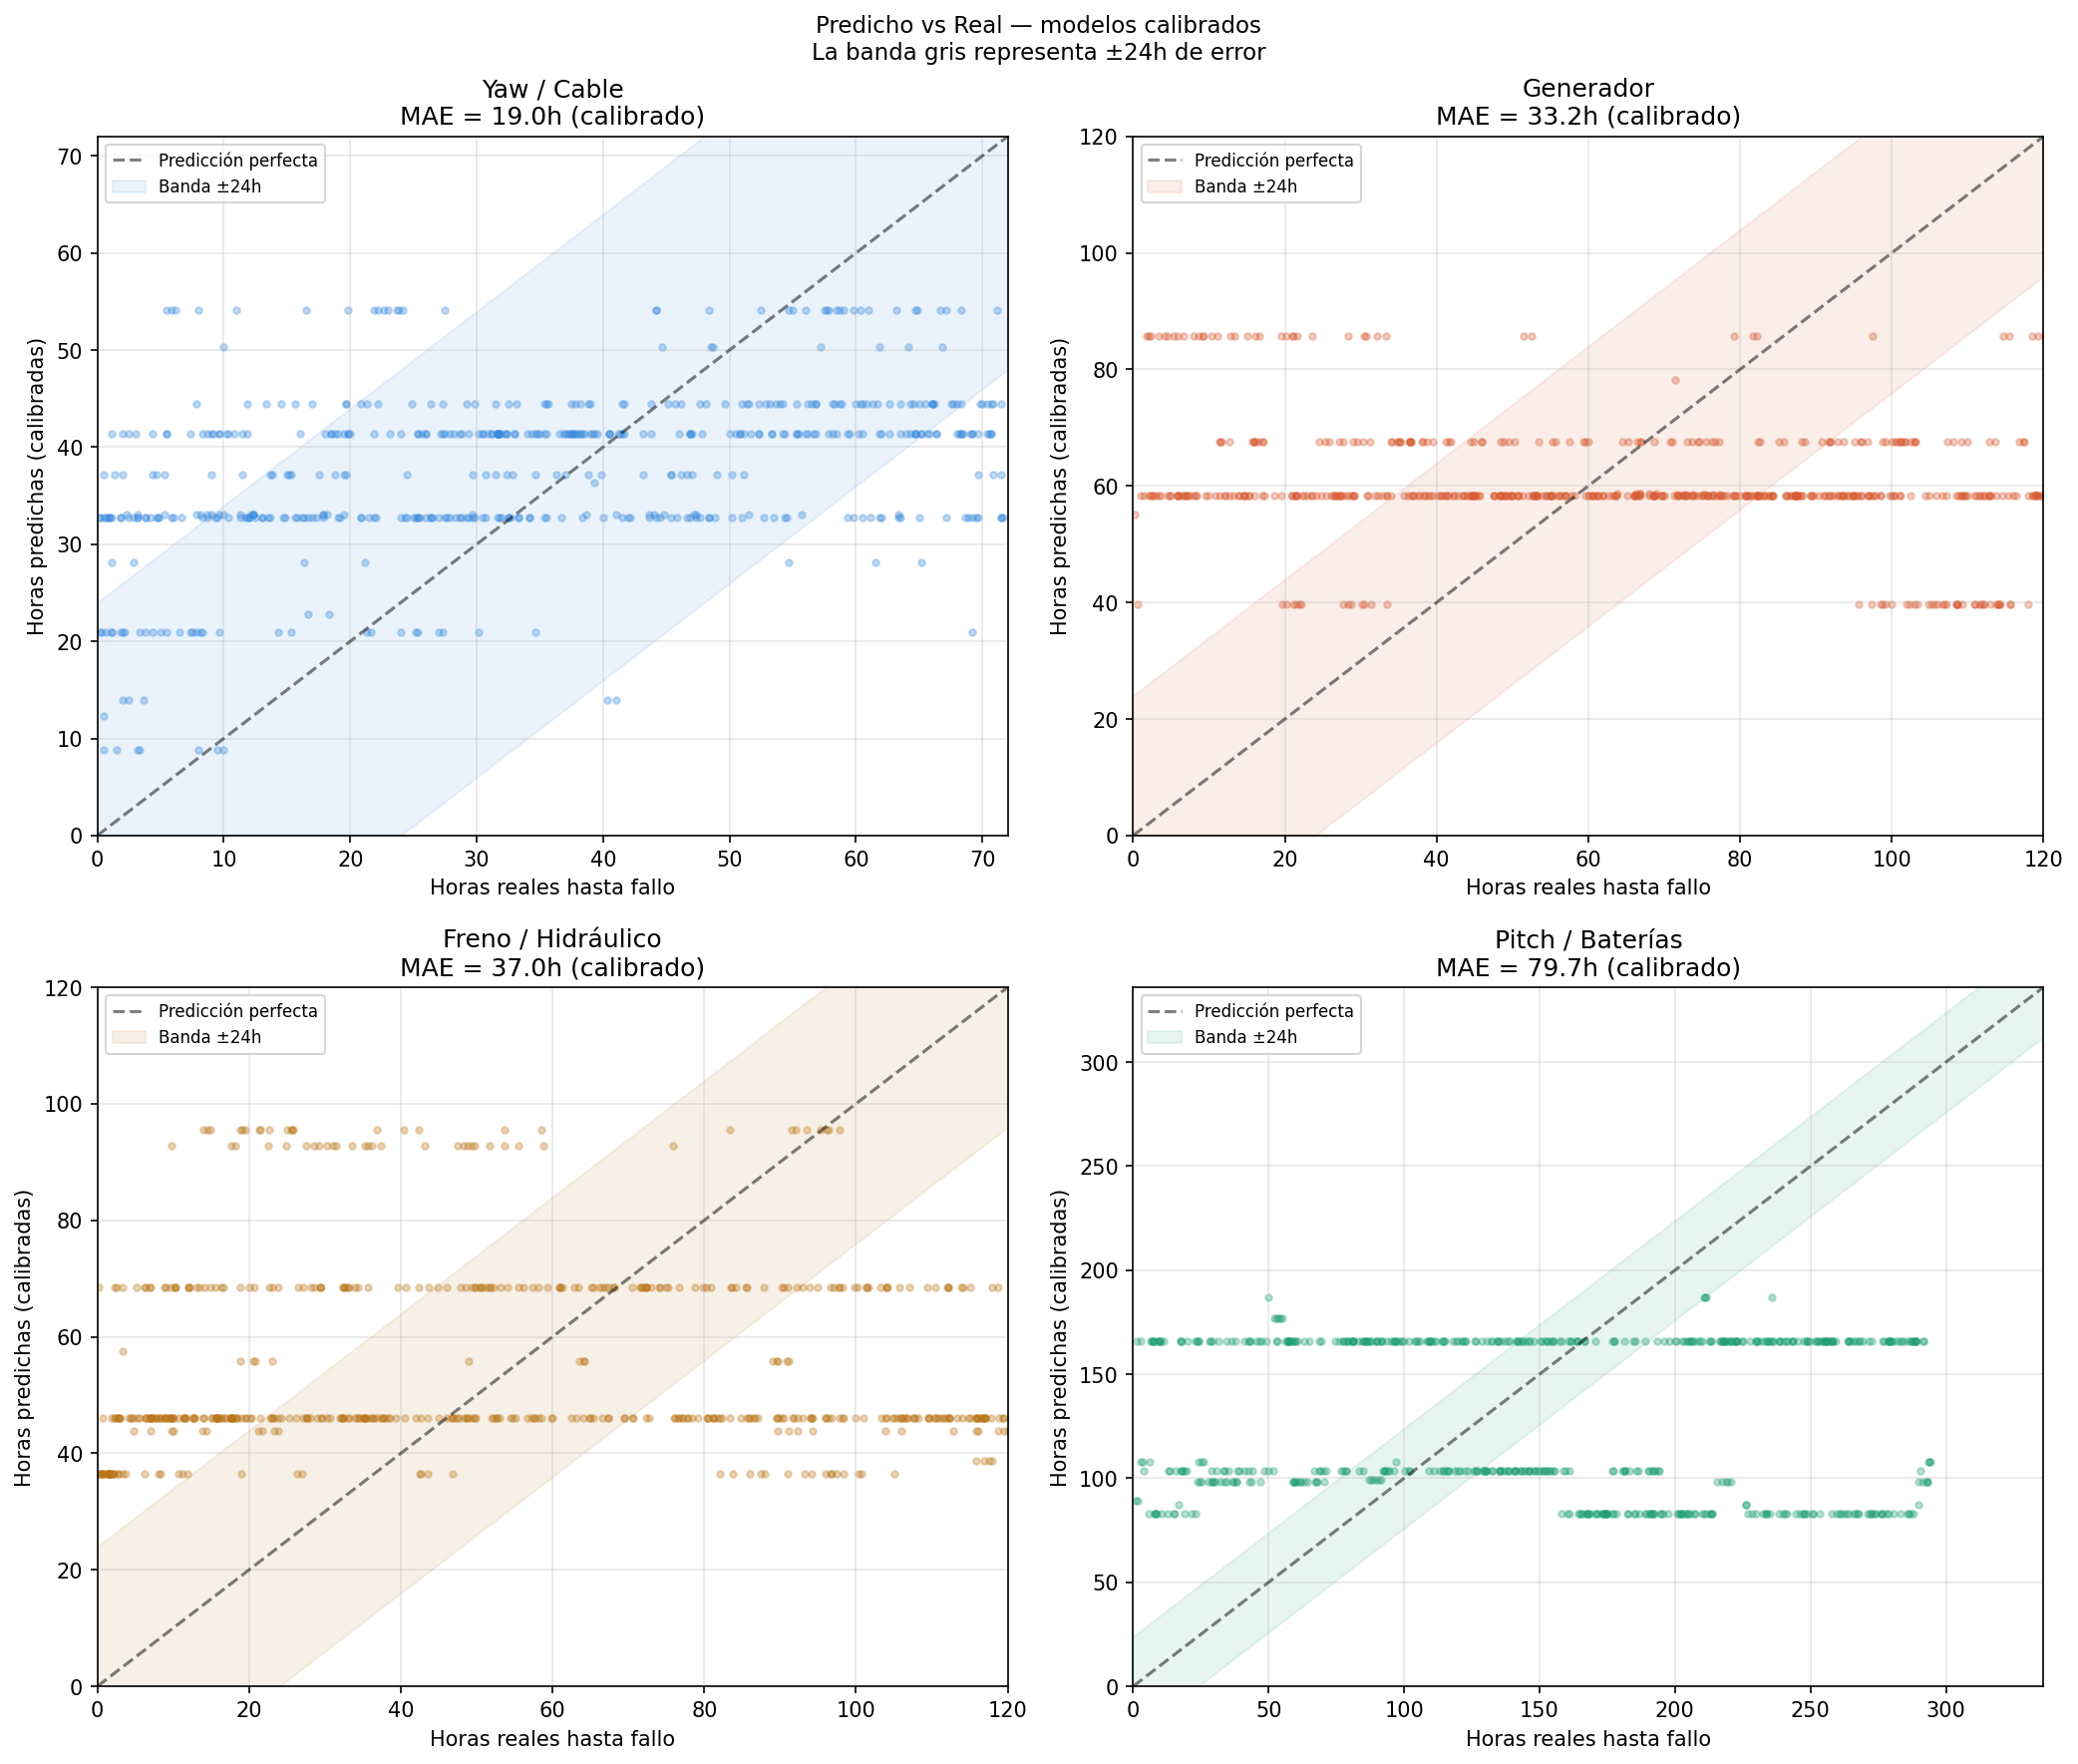
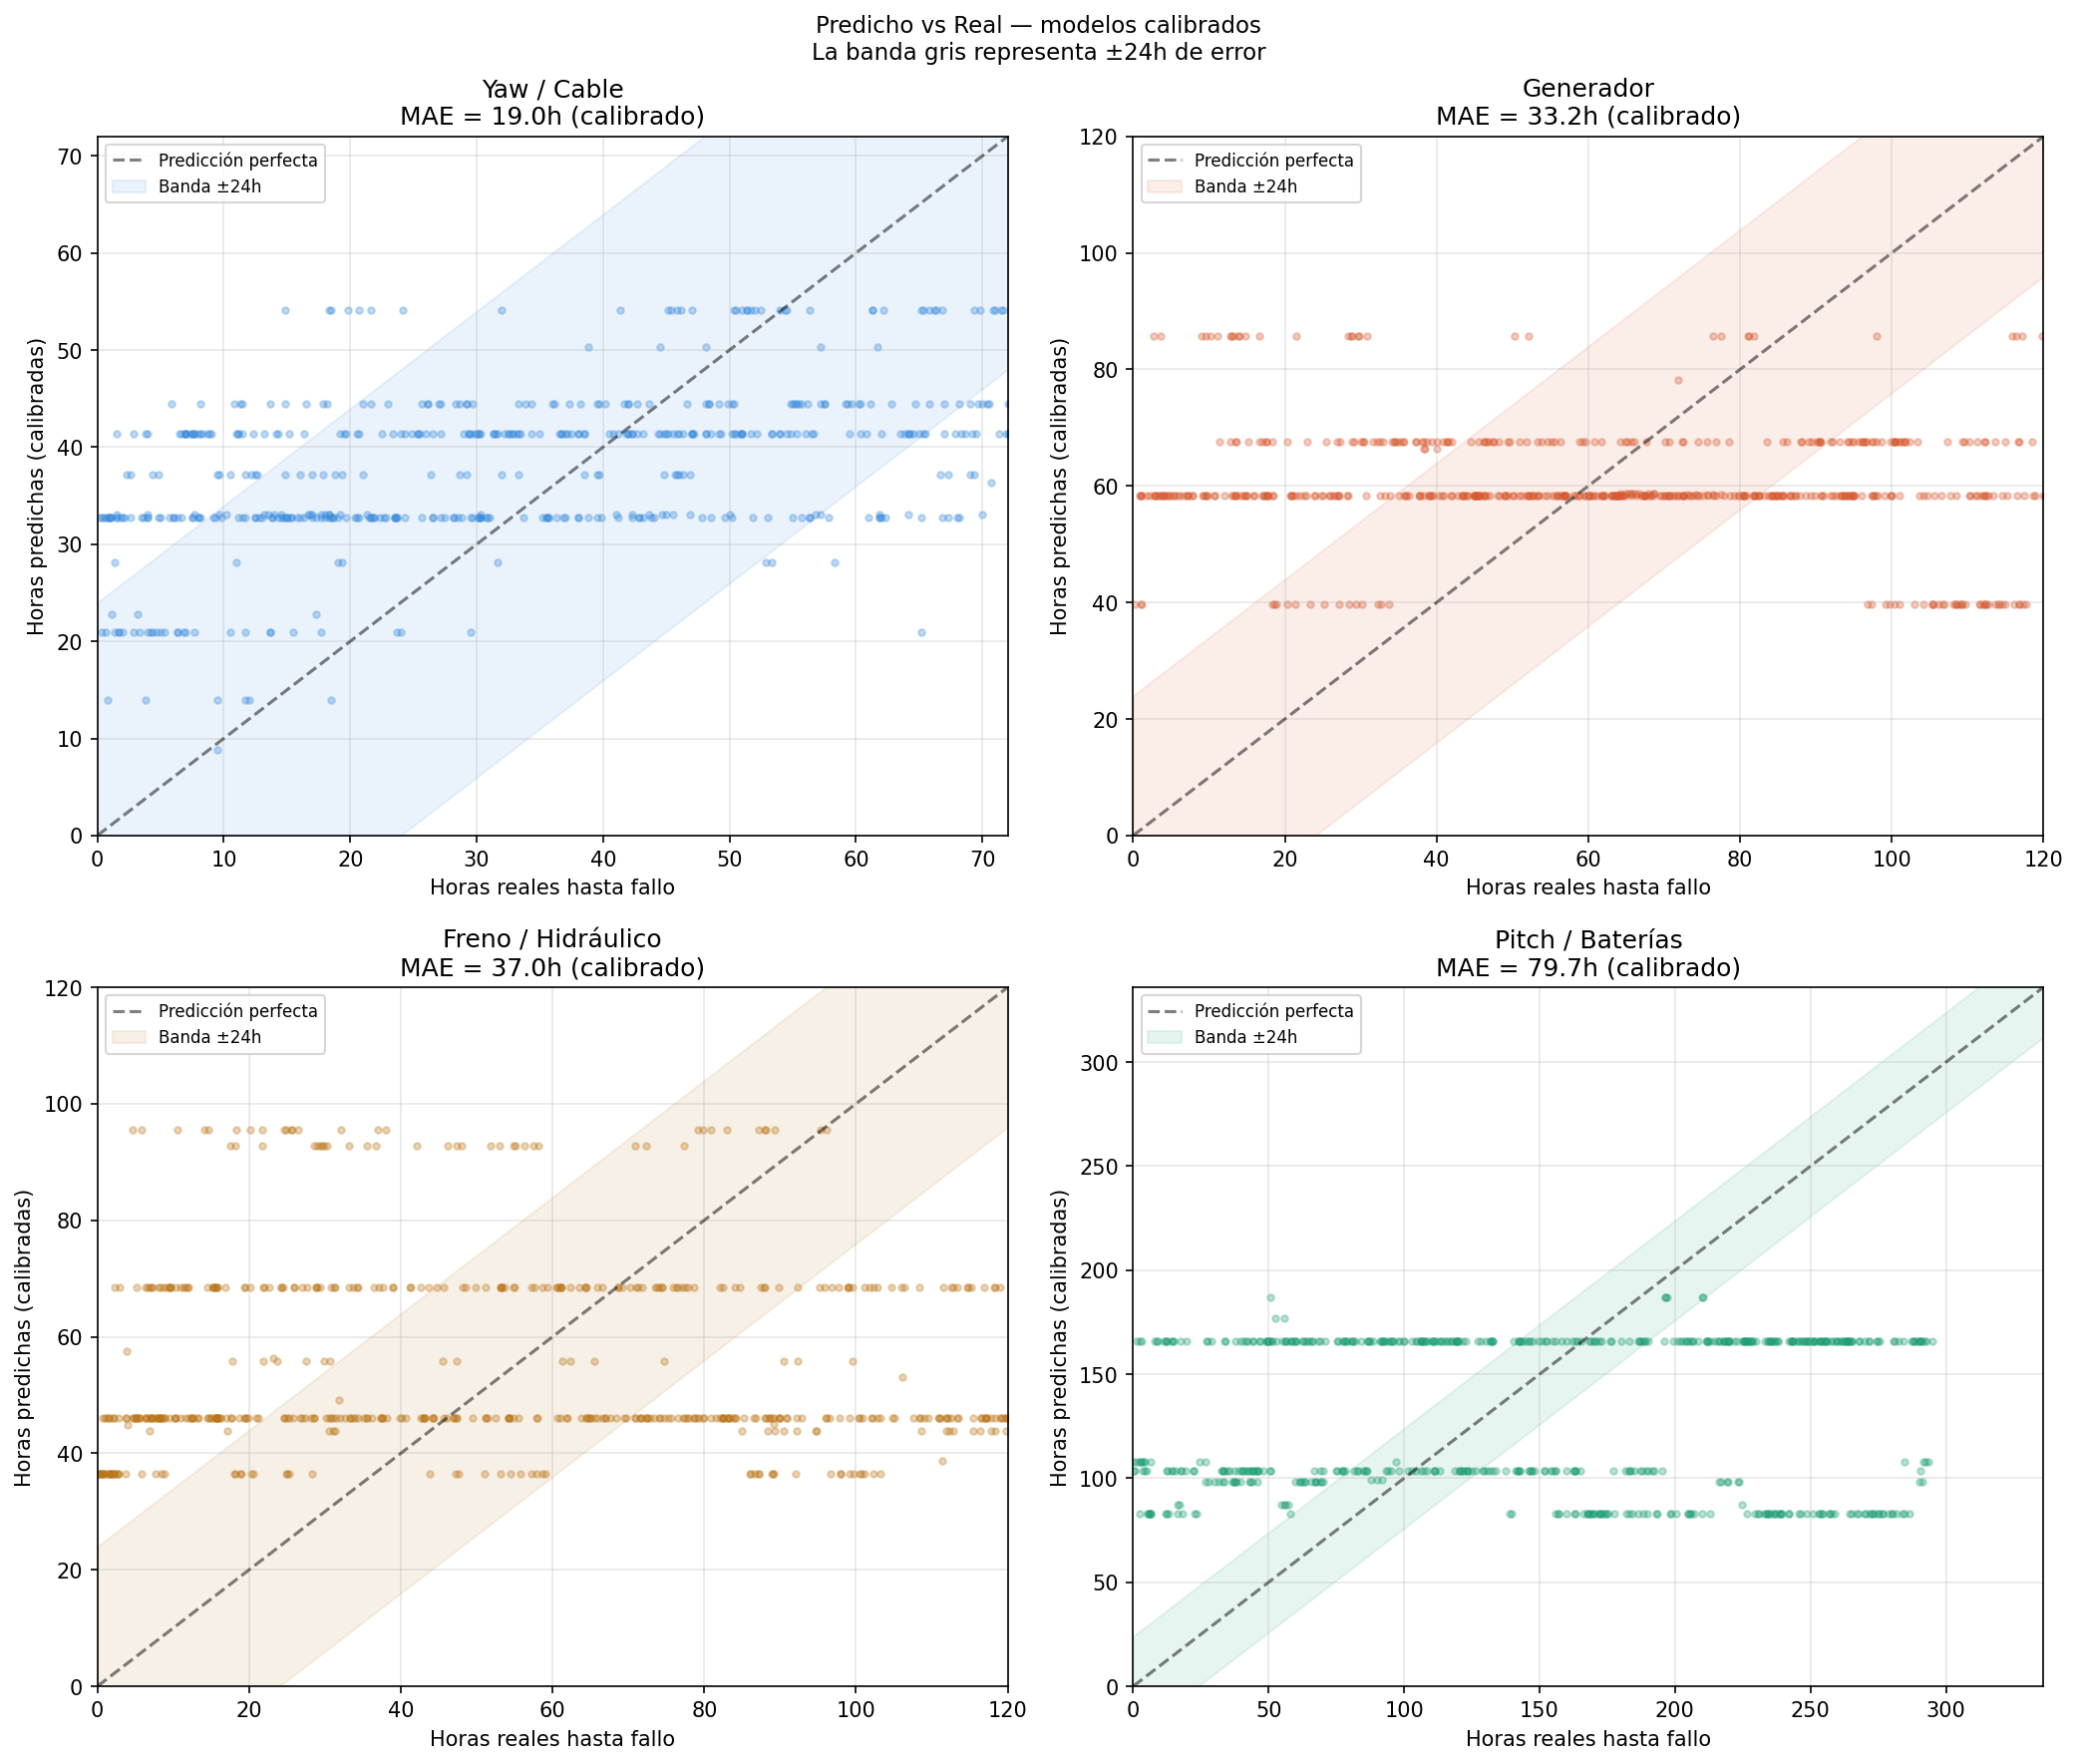
Update20260607

diff --git a/src/t2_03_process_fault_log.py b/src/t2_03_process_fault_log.py
@@ -1,0 +1,115 @@
+"""
+Procesa el CSV mensual de fallos de T2 y lo acumula en
+fault_targets_grouped_t2.parquet con la misma estructura que T1.
+
+Uso:
+  python t2_03_process_fault_log.py --csv /ruta/al/fault_log_mes.csv
+
+El CSV de entrada tiene la estructura original del SCADA:
+  Timestamp start, Timestamp end, Duration, Status, Code, Message,
+  Comment, Service contract category, IEC category, is_failure_target
+"""
+import os, argparse
+import pandas as pd
+
+BASE_DIR   = os.path.dirname(os.path.dirname(os.path.abspath(__file__)))
+SILVER_DIR = os.path.join(BASE_DIR, 'data', 'silver')
+
+# Mismos códigos que en 03_merge_and_cleaning.ipynb
+FAULT_FAMILIES = {
+    'yaw_cable':   {'codes': [6052, 6200, 6054, 6120, 6300]},
+    'brake_hydro': {'codes': [2125, 5720, 5510, 2000, 1860]},
+    'generator':   {'codes': [3000, 2550, 2650, 2655, 2674, 3125, 8400]},
+    'pitch_bat':   {'codes': [716, 717, 718, 681, 682, 683, 785, 850]},
+}
+
+ALL_TARGET_CODES = {
+    code for cfg in FAULT_FAMILIES.values() for code in cfg['codes']
+}
+
+def get_family(code):
+    for family, cfg in FAULT_FAMILIES.items():
+        if code in cfg['codes']:
+            return family
+    return 'other'
+
+def process_fault_csv(csv_path: str) -> pd.DataFrame:
+    """
+    Procesa un CSV de fallos con estructura original del SCADA.
+    Devuelve un DataFrame agrupado por (timestamp, family) listo
+    para acumular en fault_targets_grouped_t2.parquet.
+    """
+    df = pd.read_csv(csv_path, parse_dates=['Timestamp start'])
+
+    # Filtrar solo eventos marcados como failure target
+    targets = df[df['is_failure_target'] == True].copy()
+    print(f'  Eventos is_failure_target=True: {len(targets)}')
+
+    if len(targets) == 0:
+        print('  Sin eventos de fallo en este CSV.')
+        return pd.DataFrame()
+
+    # Filtrar solo los códigos de las 4 familias
+    targets = targets[targets['Code'].isin(ALL_TARGET_CODES)].copy()
+    print(f'  Eventos en familias entrenables: {len(targets)}')
+
+    # Redondear timestamp hacia abajo al intervalo de 10 minutos
+    # (igual que en 03_merge_and_cleaning — floor, no round)
+    targets['timestamp'] = targets['Timestamp start'].dt.floor('10min')
+
+    # Asignar familia
+    targets['family'] = targets['Code'].apply(get_family)
+    targets = targets[targets['family'] != 'other'].copy()
+
+    # Agrupar por (timestamp, familia) — misma lógica que el notebook 03
+    grouped = targets.groupby(['timestamp', 'family']).agg(
+        Code    = ('Code',    lambda x: ','.join(map(str, sorted(x.unique())))),
+        Message = ('Message', lambda x: ' | '.join(x.unique())),
+        Status  = ('Status',  'first'),
+    ).reset_index()
+
+    counts  = targets.groupby(['timestamp', 'family']).size().reset_index(name='n_events')
+    grouped = grouped.merge(counts, on=['timestamp', 'family'])
+
+    print(f'  Eventos agrupados: {len(grouped)}')
+    print(f'  Por familia:')
+    print(grouped['family'].value_counts().to_string())
+
+    return grouped
+
+def accumulate_faults(new_faults: pd.DataFrame):
+    """
+    Añade los nuevos fallos al parquet acumulado de T2.
+    Elimina duplicados por (timestamp, family) en caso de reprocesar el mismo mes.
+    """
+    out_path = os.path.join(SILVER_DIR, 'fault_targets_grouped_t2.parquet')
+
+    if os.path.exists(out_path):
+        existing = pd.read_parquet(out_path)
+        combined = pd.concat([existing, new_faults], ignore_index=True)
+        # Eliminar duplicados — por si se reprocesa el mismo CSV
+        combined = combined.drop_duplicates(
+            subset=['timestamp', 'family'], keep='last'
+        ).sort_values('timestamp').reset_index(drop=True)
+        print(f'  Fallos previos: {len(existing)} → Total tras añadir: {len(combined)}')
+    else:
+        combined = new_faults.sort_values('timestamp').reset_index(drop=True)
+        print(f'  Primer CSV procesado — creando parquet desde cero: {len(combined)} fallos')
+
+    combined.to_parquet(out_path, index=False)
+    print(f'  ✅ Guardado: fault_targets_grouped_t2.parquet')
+    print(f'  Rango: {combined["timestamp"].min()} → {combined["timestamp"].max()}')
+
+if __name__ == '__main__':
+    parser = argparse.ArgumentParser()
+    parser.add_argument('--csv', required=True,
+                        help='Ruta al CSV mensual de fallos de T2')
+    args = parser.parse_args()
+
+    print(f'Procesando: {args.csv}')
+    new_faults = process_fault_csv(args.csv)
+
+    if len(new_faults) > 0:
+        accumulate_faults(new_faults)
+    else:
+        print('Sin fallos nuevos para acumular.')

diff --git a/src/t2_00b_faut_prepare.py b/src/t2_00b_faut_prepare.py
@@ -1,0 +1,75 @@
+import os
+import glob
+import shutil
+from pyspark.sql import SparkSession
+from pyspark.sql import functions as F
+
+# 1. SPARK
+spark = SparkSession.builder \
+    .appName("Kelmarsh-Fault-Prepare") \
+    .master("local[6]") \
+    .config("spark.driver.memory", "8g") \
+    .getOrCreate()
+
+spark.sparkContext.setLogLevel("ERROR")
+
+# 2. RUTAS
+SCRIPT_DIR = os.path.dirname(os.path.abspath(__file__))
+PROJECT_ROOT = os.path.dirname(SCRIPT_DIR)
+bronze_dir = os.path.join(PROJECT_ROOT, "data", "bronze")
+
+# 3. ARCHIVOS
+target_years = ["2018", "2019", "2020", "2021", "2022"]
+TURBINE_ID = 2
+
+all_files = []
+for year in target_years:
+    pattern = os.path.join(bronze_dir, f"Kelmarsh_SCADA_{year}_*", f"Status_Kelmarsh_{TURBINE_ID}_*.csv")
+    all_files.extend(glob.glob(pattern))
+
+print(f"Archivos: {len(all_files)}")
+
+# 4. LEER CSV
+status_df = spark.read.option("header", True).option("comment", "#").csv(all_files)
+
+# 5. SUMAR 8 AÑOS
+status_df = status_df.withColumn(
+    "Timestamp start",
+    F.add_months(F.try_to_timestamp("Timestamp start"), 96)
+).withColumn(
+    "Timestamp end",
+    F.add_months(F.try_to_timestamp("Timestamp end"), 96)
+)
+
+# 6. AÑADIR COLUMNA AÑO-MES PARA FRACCIONAR
+status_df = status_df.withColumn("year_month", F.date_format("Timestamp start", "yyyy-MM"))
+
+# 7. OBTENER LISTA DE MESES ÚNICOS
+months = [row.year_month for row in status_df.select("year_month").distinct().collect()]
+months.sort()
+
+# 8. CREAR DIRECTORIO DE SALIDA
+output_dir = os.path.join(PROJECT_ROOT, "data", "silver", "turbine_2_status_by_month")
+os.makedirs(output_dir, exist_ok=True)
+
+# 9. GUARDAR UN CSV POR MES
+for month in months:
+    month_df = status_df.filter(F.col("year_month") == month).drop("year_month")
+    month_df = month_df.orderBy("Timestamp start")
+    
+    output_file = os.path.join(output_dir, f"turbine_2_status_{month}.csv")
+    temp_dir = os.path.join(output_dir, f"temp_{month}")
+    
+    month_df.coalesce(1).write.mode("overwrite").option("header", "true").csv(temp_dir)
+    
+    # Renombrar el archivo part-00000
+    for f in os.listdir(temp_dir):
+        if f.startswith("part-") and f.endswith(".csv"):
+            shutil.move(os.path.join(temp_dir, f), output_file)
+            break
+    shutil.rmtree(temp_dir)
+    
+    count = month_df.count()
+    print(f"Guardado: {output_file} ({count} registros)")
+
+print(f"\nListo. Archivos guardados en: {output_dir}")

diff --git a/src/t2_02_daily_inference.py b/src/t2_02_daily_inference.py
@@ -1,7 +1,7 @@
 """
 Inferencia diaria sobre Turbina 2.
 Ejecutar cada día mediante cron o EventBridge.
-Produce UNA fila en t2_predictions_log.csv por familia con la predicción del día.
+Produce UNA fila en predictions_log.csv por familia con la predicción del día.
 
 Lógica de fechas:
   - "Hoy" = fecha real del sistema en el momento de ejecución (pd.Timestamp.now())
@@ -121,7 +121,7 @@ def run_daily_inference():
         fault_times = fault_log[fault_log['family'] == family]['timestamp'].tolist()
         if not fault_times:
             t1_targets  = pd.read_parquet(
-                os.path.join(SILVER_DIR, 'fault_targets_grouped.parquet')
+                os.path.join(SILVER_DIR, 't1_fault_targets_grouped.parquet')
             )
             fault_times = t1_targets[
                 t1_targets['family'] == family